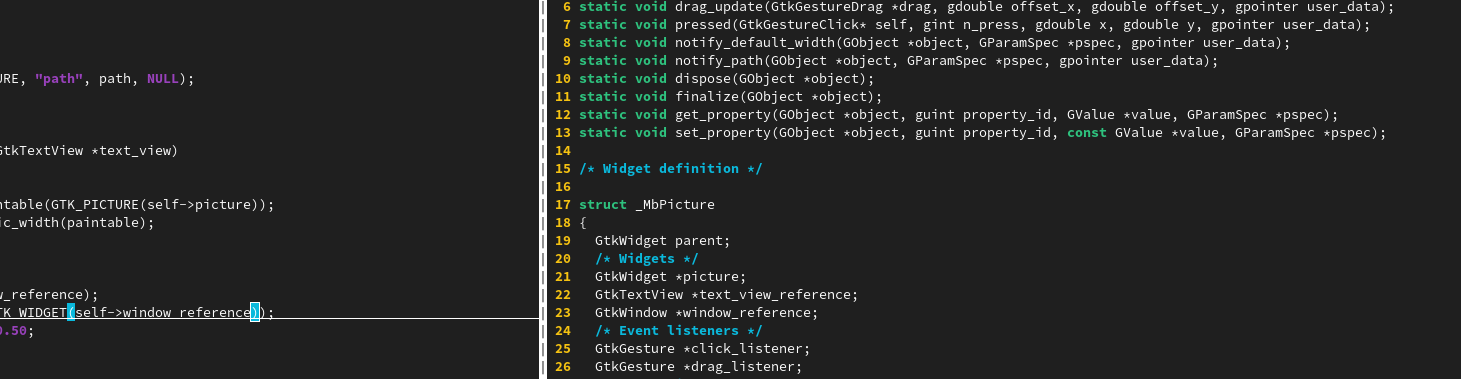
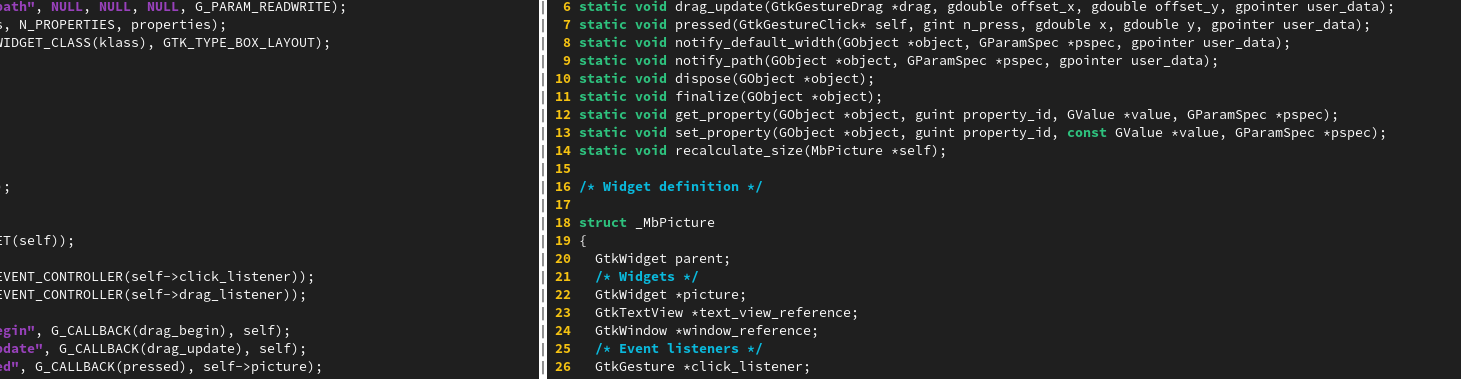
Save

diff --git a/src/components/mb_picture.c b/src/components/mb_picture.c
@@ -33,6 +33,7 @@ struct _MbPicture
 	gdouble start_y;
 
 	gdouble desired_width;
+	gint current_text_view_width;
 	gint max_text_view_width;
 };
 
@@ -99,35 +100,15 @@ GtkWidget* mb_picture_new(const gchar *path)
 
 void mb_picture_set_text_view(MbPicture *self, GtkTextView *text_view)
 {
-	/*
-	// Get image's default width.
-	GdkPaintable *paintable = gtk_picture_get_paintable(GTK_PICTURE(self->picture));
-	gint native_width = gdk_paintable_get_intrinsic_width(paintable);
-
-	// Get text view's width.
+	g_print("mb_picture_set_text_view\n");
 	self->text_view_reference = text_view;
-	GtkWidget *widget = GTK_WIDGET(self->text_view_reference);
-	gint text_view_width = gtk_widget_get_width(GTK_WIDGET(self->window_reference));
-	gint text_view_max_width = text_view_width * 0.40;
-
-	// Calculate image's height and width.
-	gint image_width = (native_width <= text_view_max_width) ? native_width : text_view_max_width;
-	gint image_height = image_width / self->aspect_ratio;
-
-	// Set image's height and width.
-	gtk_widget_set_size_request(self->picture, image_width, image_height);
-	*/
+	self->current_text_view_width = gtk_widget_get_width(GTK_WIDGET(self->text_view_reference));
+	recalculate_size(self);
 }
 
 void mb_picture_set_window(MbPicture *self, GtkWindow *window_reference)
 {
 	self->window_reference = window_reference;
-	GdkPaintable *paintable = gtk_picture_get_paintable(GTK_PICTURE(self->picture));
-	gint intrinsic_width = gdk_paintable_get_intrinsic_width(paintable);
-	gint max_width = gtk_widget_get_width(GTK_WIDGET(window_reference)) / 2;
-	gint image_width = (intrinsic_width < max_width) ? intrinsic_width : max_width;
-	gint image_height = image_width / self->aspect_ratio;
-	gtk_widget_set_size_request(self->picture, image_width, image_height);
 	g_signal_connect(self->window_reference, "notify::default-width", G_CALLBACK(notify_default_width), self);
 }
 
@@ -146,19 +127,10 @@ static void drag_update(GtkGestureDrag *drag, gdouble offset_x, gdouble offset_y
 	gdouble start_x = self->start_x;
 	gdouble start_y = self->start_y;
 
-	// Calculate image's requested width.
+	// Re-calculate image's desired width.
 	self->desired_width = start_x + offset_x;
 
-	// Calculate image's maximum width.
-	GtkTextView *text_view = self->text_view_reference;
-	//gint max_width = gtk_widget_get_width(GTK_WIDGET(self->window_reference)) * 0.40;
-	gint max_width = 768;
-
-	// Calculate image's actual height and width.
-	gint actual_width = (self->desired_width <= max_width) ? self->desired_width : max_width;
-	gint actual_height = actual_width / self->aspect_ratio;
-
-	gtk_widget_set_size_request(self->picture, actual_width, actual_height);
+	recalculate_size(self);
 }
 
 static void pressed(GtkGestureClick* self, gint n_press, gdouble x, gdouble y, gpointer user_data)
@@ -168,21 +140,24 @@ static void pressed(GtkGestureClick* self, gint n_press, gdouble x, gdouble y, g
 
 static void notify_default_width(GObject *object, GParamSpec *pspec, gpointer user_data)
 {
+	g_print("notify_default_width\n");
 	MbPicture *self = MB_PICTURE(user_data);
 
 	// Calculate image's maximum width.
 	GtkTextView *text_view = self->text_view_reference;
-	//gint max_width = gtk_widget_get_width(GTK_WIDGET(self->window_reference)) * 0.40;
-	gint max_width = 768;
-	gint actual_width = (self->desired_width <= max_width) ? self->desired_width : max_width;
-	gint actual_height = actual_width / self->aspect_ratio;
-	gtk_widget_set_size_request(self->picture, actual_width, actual_height);
+	self->current_text_view_width = gtk_widget_get_width(GTK_WIDGET(text_view));
+
+	if(self->current_text_view_width > self->max_text_view_width)
+	{
+		self->max_text_view_width = self->current_text_view_width;
+	}
+
+	recalculate_size(self);
 }
 
 static void notify_path(GObject *object, GParamSpec *pspec, gpointer user_data)
 {
-	// Initialize desired_width to the default width of the image.
-	// Initialize aspect_ratio of image.
+	g_print("notify_path\n");
 	MbPicture *self = MB_PICTURE(user_data);
 	GdkPaintable *paintable = gtk_picture_get_paintable(GTK_PICTURE(self->picture));
 	gint height = gdk_paintable_get_intrinsic_height(paintable);
@@ -238,5 +213,20 @@ static void mb_picture_init(MbPicture *self)
 
 static void recalculate_size(MbPicture *self)
 {
-	GtkTextView *text_view = self->text_view_reference;
+	g_print("recalculate_size\n");
+	gint width = self->desired_width;
+
+	if(0.40 * self->max_text_view_width < width)
+	{
+		width = 0.40 * self->max_text_view_width;
+	}
+	if(self->current_text_view_width < width)
+	{
+		width = self->current_text_view_width;
+	}
+
+	g_print("Desired: %d, current: %d, max: %d\n", self->desired_width, self->current_text_view_width, self->max_text_view_width);
+
+	gint height = width / self->aspect_ratio;
+	gtk_widget_set_size_request(self->picture, width, height);
 }
